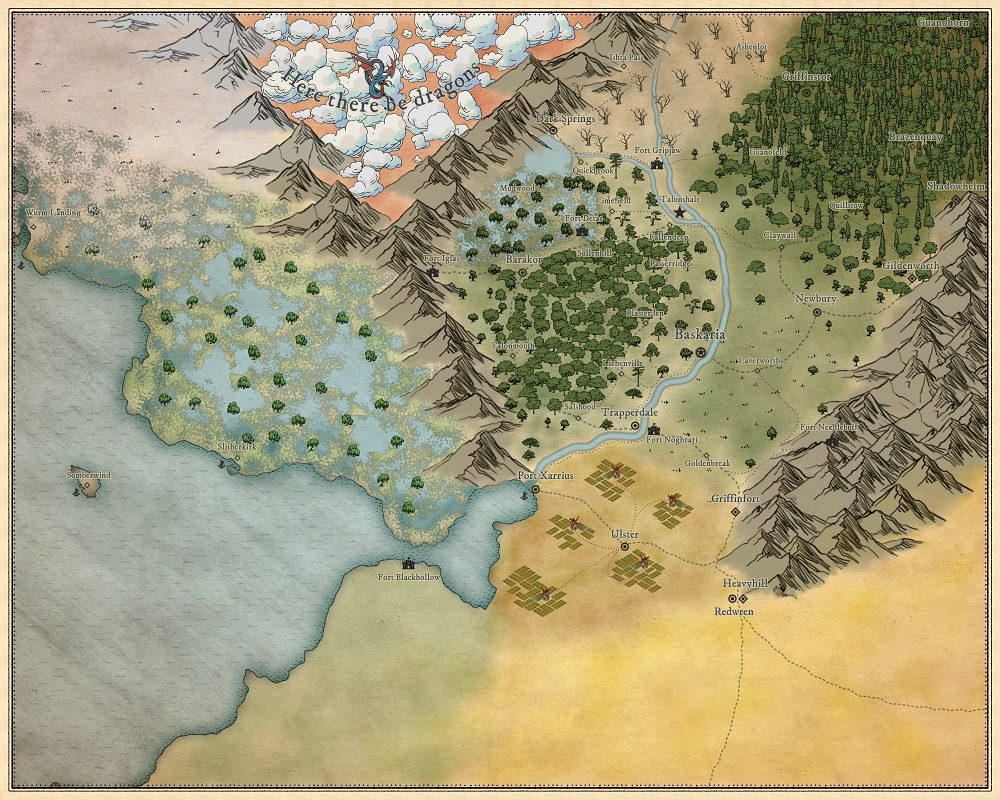
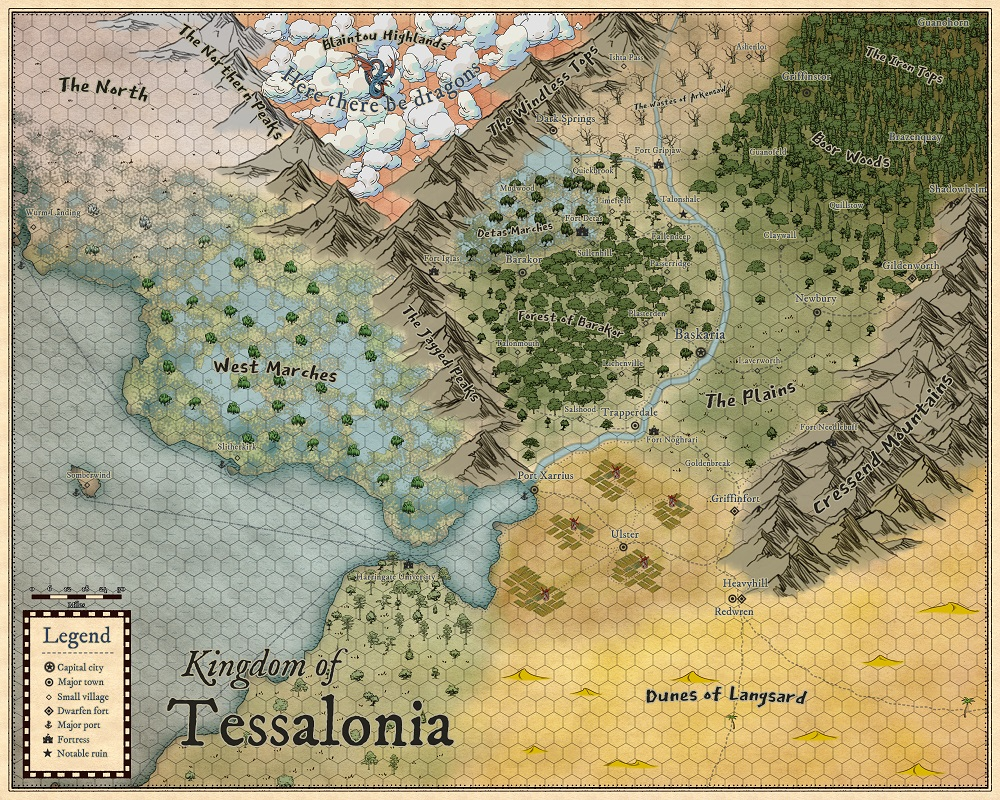
Update map page

diff --git a/themes/dnd/source/css/index.sass b/themes/dnd/source/css/index.sass
@@ -74,6 +74,10 @@ header
         line-height: 0.7em
         padding: 0.3em 0.15em 0 0
 
+    ul ul, ol ol, ul ol, ol ul
+        margin-left: 0
+        list-style-type: circle
+
 header, .phb
     max-width: 800px
     width: 100%

diff --git a/source/tessalonia/index.md b/source/tessalonia/index.md
@@ -1,4 +1,33 @@
 ---
 title: Tessalonia
-layout: tessalonia
 ---
+# Zemljevid
+Spodaj je zemljevid znanih in neznanih pokrajin, znan našim herojem. Klikni na sliko za fullscreen zemljevid.
+<img class='open-map img-center' src='tessalonia.jpg' alt='Map of Tessalonia'/>
+
+
+## Kraljestva in regije
+Imena v oklepajih so imena, ki jih uporabljajo nativni prebivalci in načeloma niso znana Tessalončanom, torej tudi igralcem ne.
+
+* Kingdom of Tessalonia
+  * Baskaria
+  * The Plains
+  * Forest of Barakor
+  * Detas Marches
+* Ulster Satrapy
+  * Ulster Fields
+  * Port Xarrius
+  * Harringate University
+* Dwarfen kingdom (Durimmear Kingdom)
+  * Cressend Mountains (Durimmear Peaks)
+* Plemena divjakov (niso združena, zato ima vsako pleme svoje ime)
+  * Boor Woods
+  * The Iron Tops
+* Drow Tribes (Children of Dardaroth)
+  * Dunes of Langsard (Shifting Sand)
+* Blaintou Highlands, here there be dragons
+* No Man's Land
+  * West Marches
+  * The North
+  * The Wastes of Arkensaw
+
